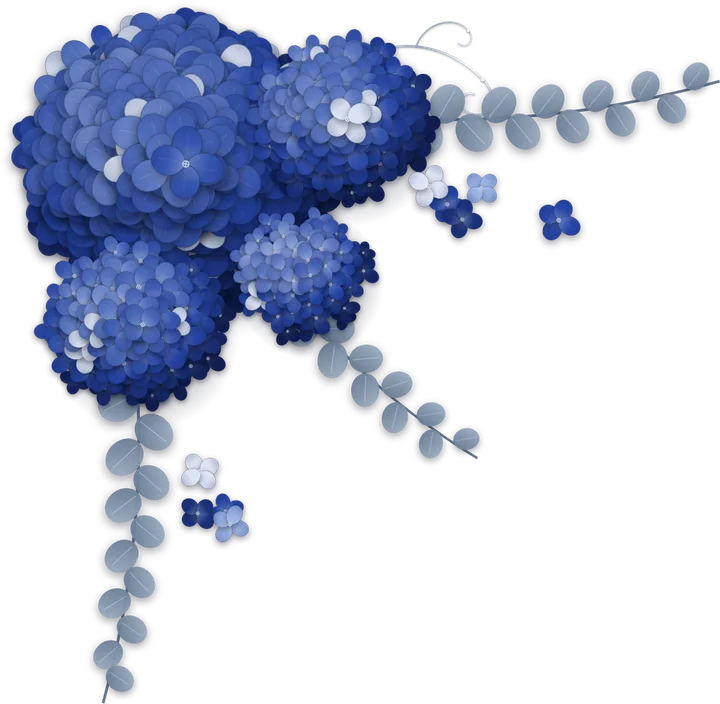
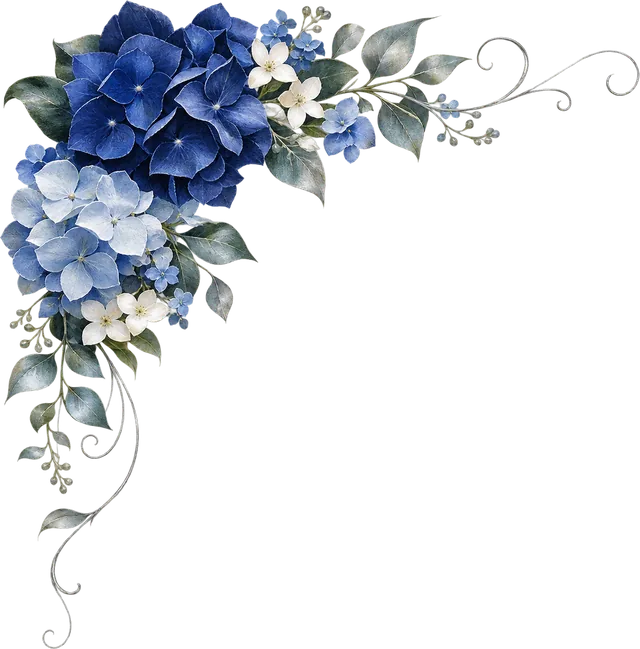
Hortênsias definitivas: ilustrações no lugar das provisórias
- Canto, arranjo com laço (no lacre do envelope), ramo das divisórias,
  hortênsia solta (Manual do Convidado) e guirlanda em volta do lacre do rodapé
- Florzinhas ilustradas caindo na abertura (tira 6 × 96 px no canvas, com
  desenho simples de reserva se a imagem não carregar)
- tools/prep_flores.py: limpa o alfa, recorta, reduz e exporta em WebP
- Remove o gerador das flores provisórias

Claude-Session: https://claude.ai/code/session_01HrQzDJ48b2GaZGgzArpSWo

diff --git a/assets/css/style.css b/assets/css/style.css
@@ -184,9 +184,9 @@ img { user-select: none; -webkit-user-select: none; -webkit-user-drag: none; }
 }
 
 /* hortênsias nos cantos */
-.intro__flor { position: absolute; z-index: 2; width: clamp(190px, 56vw, 290px); height: auto; pointer-events: none; opacity: 0; filter: drop-shadow(0 12px 16px rgba(0, 0, 0, .4)); }
-.intro__flor--tl { top: calc(-9vw - 6px); left: -10vw; }
-.intro__flor--br { bottom: calc(-9vw - 6px); right: -10vw; width: clamp(170px, 48vw, 260px); }
+.intro__flor { position: absolute; z-index: 2; width: clamp(190px, 54vw, 300px); height: auto; pointer-events: none; opacity: 0; filter: drop-shadow(0 12px 16px rgba(0, 0, 0, .4)); }
+.intro__flor--tl { top: calc(-3vw + var(--safe-t)); left: -4vw; }
+.intro__flor--br { bottom: -3vw; right: -4vw; width: clamp(180px, 52vw, 280px); }
 .intro.is-ready .intro__flor--tl { animation: flor-tl 1.8s .3s var(--ease) forwards; }
 .intro.is-ready .intro__flor--br { animation: flor-br 1.8s .55s var(--ease) forwards; }
 @keyframes flor-tl { from { opacity: 0; transform: translate(-10%, -10%) scale(.92); } to { opacity: 1; transform: none; } }
@@ -291,8 +291,8 @@ img { user-select: none; -webkit-user-select: none; -webkit-user-drag: none; }
 /* arranjo de hortênsias preso no lacre */
 .env__bouquet {
   position: absolute; left: 50%; top: 61.2245%; z-index: 6;
-  width: 50%; height: auto;
-  transform: translate(-50%, -56%);
+  width: 40%; height: auto;
+  transform: translate(-50%, -70%);   /* o laço fica atrás do lacre */
   pointer-events: none;
   filter: drop-shadow(0 6px 8px rgba(0, 0, 0, .45));
 }
@@ -311,7 +311,7 @@ img { user-select: none; -webkit-user-select: none; -webkit-user-drag: none; }
 .intro.is-opening .intro__hint, .intro.is-skipping .intro__hint { animation: none; opacity: 0; transition: opacity .3s ease; }
 
 .intro.is-opening .env__bouquet { animation: bouquet-fall .8s .05s cubic-bezier(.4, 0, .7, .4) forwards; }
-@keyframes bouquet-fall { to { transform: translate(-50%, -20%) rotate(-6deg) scale(.94); opacity: 0; } }
+@keyframes bouquet-fall { to { transform: translate(-50%, -34%) rotate(-6deg) scale(.94); opacity: 0; } }
 
 .intro.is-opening .env__flap { animation: flap-open .85s .35s cubic-bezier(.45, .05, .25, 1) both, fade-out .55s 1.95s ease-in forwards; }
 @keyframes flap-open {
@@ -482,8 +482,8 @@ img { user-select: none; -webkit-user-select: none; -webkit-user-drag: none; }
 .arch::after { inset: 17px; border: 1px solid rgba(223, 229, 238, .32); }
 
 .arch__flor { position: absolute; z-index: 2; height: auto; pointer-events: none; filter: drop-shadow(0 10px 14px rgba(0, 0, 0, .45)); }
-.arch__flor--tl { top: -52px; left: -30px; width: 54%; }
-.arch__flor--br { bottom: -44px; right: -22px; width: 42%; transform: rotate(180deg); }
+.arch__flor--tl { top: -34px; left: -24px; width: 62%; }
+.arch__flor--br { bottom: -30px; right: -20px; width: 50%; transform: rotate(180deg); }
 .arch__in { position: relative; z-index: 1; }
 
 .hero__xv {
@@ -500,7 +500,7 @@ img { user-select: none; -webkit-user-select: none; -webkit-user-drag: none; }
 .name__a { transform: translateX(-.32em); }
 .name__b { transform: translateX(.22em); margin-top: -.18em; }
 
-.hero__ramo { display: block; width: 84%; height: auto; margin: 14px auto 4px; }
+.hero__ramo { display: block; width: 92%; height: auto; margin: 16px auto 6px; }
 .invite { margin-top: 10px; display: grid; gap: 8px; }
 .invite span:first-child { font-size: 1.3rem; font-weight: 600; line-height: 1.25; color: var(--silver-100); text-wrap: balance; }
 .invite span:last-child { font-size: 1.14rem; font-style: italic; line-height: 1.3; color: var(--silver-300); }
@@ -669,7 +669,7 @@ img { user-select: none; -webkit-user-select: none; -webkit-user-drag: none; }
 .pearl::before, .pearl::after { content: ""; position: absolute; pointer-events: none; }
 .pearl::before { inset: 10px; border: 1px solid rgba(42, 79, 181, .38); }
 .pearl::after  { inset: 15px; border: 1px solid rgba(42, 79, 181, .14); }
-.pearl__flor { position: absolute; left: 50%; top: -62px; z-index: 3; width: 200px; height: auto; transform: translateX(-50%); filter: drop-shadow(0 10px 12px rgba(4, 10, 30, .35)); pointer-events: none; }
+.pearl__flor { position: absolute; left: 50%; top: -78px; z-index: 3; width: 150px; height: auto; transform: translateX(-50%); filter: drop-shadow(0 10px 12px rgba(4, 10, 30, .35)); pointer-events: none; }
 .pearl__corner { position: absolute; z-index: 1; width: 52px; height: 52px; color: var(--royal); opacity: .8; pointer-events: none; }
 .pearl__corner svg { width: 100%; height: 100%; display: block; overflow: visible; }
 .pearl__corner--tl { top: 10px; left: 10px; }
@@ -694,11 +694,12 @@ img { user-select: none; -webkit-user-select: none; -webkit-user-drag: none; }
 /* ---------- 8. RODAPÉ E BOTÃO DE MÚSICA ---------------------------------- */
 .footer { position: relative; padding: 70px 24px 28px; text-align: center; }
 .footer::before {
-  content: ""; position: absolute; left: 50%; top: 110px; width: 300px; height: 300px; margin-left: -150px; z-index: -1;
+  content: ""; position: absolute; left: 50%; top: 50px; width: 300px; height: 300px; margin-left: -150px; z-index: -1;
   background: radial-gradient(closest-side, rgba(160, 188, 250, .2), transparent);
 }
-.footer__ramo { display: block; width: min(64%, 250px); height: auto; margin: 0 auto 14px; }
-.footer__seal { display: block; width: 72px; height: 72px; margin: 0 auto 22px; filter: drop-shadow(0 6px 8px rgba(0, 0, 0, .55)); }
+.footer__crest { position: relative; width: 220px; height: 220px; margin: 0 auto 16px; }
+.footer__wreath { position: absolute; inset: 0; width: 100%; height: 100%; filter: drop-shadow(0 10px 14px rgba(0, 0, 0, .45)); }
+.footer__seal { position: absolute; left: 50%; top: 47%; width: 78px; height: 78px; transform: translate(-54%, -50%); filter: drop-shadow(0 6px 8px rgba(0, 0, 0, .55)); }
 .footer__line { font-size: 1.3rem; font-style: italic; color: var(--silver-200); }
 .footer__name { margin-top: 4px; font-size: 3.3rem; line-height: 1.3; color: var(--silver-100); text-shadow: 0 2px 14px rgba(0, 0, 0, .55); }
 

diff --git a/index.html b/index.html
@@ -178,8 +178,8 @@
   <section id="intro" class="intro" aria-label="Convite fechado">
     <div class="intro__veil" aria-hidden="true"></div>
     <div class="intro__beam" aria-hidden="true"></div>
-    <img class="intro__flor intro__flor--tl" src="assets/img/flores/canto.webp" alt="" width="720" height="704" decoding="async" fetchpriority="high">
-    <img class="intro__flor intro__flor--br" src="assets/img/flores/canto.webp" alt="" width="720" height="704" decoding="async">
+    <img class="intro__flor intro__flor--tl" src="assets/img/flores/canto.webp" alt="" width="640" height="649" decoding="async" fetchpriority="high">
+    <img class="intro__flor intro__flor--br" src="assets/img/flores/canto.webp" alt="" width="640" height="649" decoding="async">
     <div class="intro__glow" aria-hidden="true"></div>
     <canvas class="burst" id="burst" aria-hidden="true"></canvas>
     <p class="intro__title" aria-hidden="true">
@@ -240,7 +240,7 @@
         <p class="env__name script" aria-hidden="true" data-cfg="pessoa.nome"></p>
 
         <!-- arranjo de hortênsias preso ao lacre -->
-        <img class="env__bouquet" src="assets/img/flores/arranjo.webp" alt="" width="560" height="351" decoding="async">
+        <img class="env__bouquet" src="assets/img/flores/arranjo.webp" alt="" width="520" height="549" decoding="async">
 
         <!-- LACRE: dois pedaços que se separam quando o convite é aberto -->
         <button class="seal" id="seal" type="button" aria-label="Abrir o convite">
@@ -273,15 +273,15 @@
     <section id="capa" class="hero" aria-label="Convite de XV anos">
       <div class="arch">
         <span class="arch__frame" aria-hidden="true"></span>
-        <img class="arch__flor arch__flor--tl" src="assets/img/flores/canto.webp" alt="" width="720" height="704" decoding="async">
-        <img class="arch__flor arch__flor--br" src="assets/img/flores/canto.webp" alt="" width="720" height="704" decoding="async">
+        <img class="arch__flor arch__flor--tl" src="assets/img/flores/canto.webp" alt="" width="640" height="649" decoding="async">
+        <img class="arch__flor arch__flor--br" src="assets/img/flores/canto.webp" alt="" width="640" height="649" decoding="async">
         <div class="arch__in">
           <p class="hero__xv" aria-hidden="true" data-cfg="pessoa.xv"></p>
           <p class="name script">
             <span class="name__a" data-cfg="pessoa.primeiroNome"></span>
             <span class="name__b" data-cfg="pessoa.sobrenome"></span>
           </p>
-          <img class="hero__ramo" src="assets/img/flores/ramo.webp" alt="" width="800" height="172" decoding="async">
+          <img class="hero__ramo" src="assets/img/flores/ramo.webp" alt="" width="900" height="105" decoding="async">
           <p class="invite"><span data-cfg="textos.convite.chamada"></span><span data-cfg="textos.convite.frase"></span></p>
         </div>
       </div>
@@ -327,7 +327,7 @@
 
     <!-- ---------- MENU DE BOTÕES ---------- -->
     <section id="menu" class="section actions" aria-labelledby="menu-titulo">
-      <img class="actions__ramo reveal reveal--flor" src="assets/img/flores/ramo.webp" alt="" width="800" height="172" loading="lazy" decoding="async">
+      <img class="actions__ramo reveal reveal--flor" src="assets/img/flores/ramo.webp" alt="" width="900" height="105" loading="lazy" decoding="async">
       <h2 class="section__title reveal" id="menu-titulo" data-cfg="textos.menuTitulo"></h2>
 
       <nav class="menu" aria-label="Opções do convite">
@@ -379,7 +379,7 @@
     <!-- ---------- MANUAL DO CONVIDADO (cartão perolado) ---------- -->
     <section id="manual" class="section" aria-labelledby="manual-titulo">
       <article class="pearl reveal">
-        <img class="pearl__flor" src="assets/img/flores/arranjo.webp" alt="" width="560" height="351" loading="lazy" decoding="async">
+        <img class="pearl__flor" src="assets/img/flores/hortensia.webp" alt="" width="440" height="434" loading="lazy" decoding="async">
         <span class="pearl__corner pearl__corner--tl" aria-hidden="true"><svg><use href="#ornament-corner"/></svg></span>
         <span class="pearl__corner pearl__corner--tr" aria-hidden="true"><svg><use href="#ornament-corner"/></svg></span>
         <span class="pearl__corner pearl__corner--bl" aria-hidden="true"><svg><use href="#ornament-corner"/></svg></span>
@@ -393,8 +393,10 @@
 
     <!-- ---------- RODAPÉ ---------- -->
     <footer class="footer">
-      <img class="footer__ramo reveal reveal--flor" src="assets/img/flores/ramo.webp" alt="" width="800" height="172" loading="lazy" decoding="async">
-      <svg class="footer__seal reveal" aria-hidden="true" viewBox="0 0 120 120" focusable="false"><use href="#seal-art"/></svg>
+      <div class="footer__crest reveal reveal--flor" aria-hidden="true">
+        <img class="footer__wreath" src="assets/img/flores/guirlanda.webp" alt="" width="480" height="479" loading="lazy" decoding="async">
+        <svg class="footer__seal" viewBox="0 0 120 120" focusable="false"><use href="#seal-art"/></svg>
+      </div>
       <p class="footer__line reveal" data-cfg="textos.rodape"></p>
       <p class="footer__name script reveal" data-cfg="pessoa.nome"></p>
     </footer>

diff --git a/assets/js/app.js b/assets/js/app.js
@@ -698,11 +698,23 @@ const CONFIG = {
       const cores = ['#2a4fb5', '#4c74d8', '#a9c1ee', '#e9eef7'];
       return {
         x: Math.random() * W, y: qualquerAltura ? Math.random() * H * .7 : -20,
-        s: 5 + Math.random() * 4, vy: .22 + Math.random() * .2, rot: Math.random() * 6.283, vr: (Math.random() - .5) * .012,
-        fase: Math.random() * 6.283, c: cores[Math.floor(Math.random() * cores.length)], a: 0,
+        s: 6 + Math.random() * 4.5, vy: .22 + Math.random() * .2, rot: Math.random() * 6.283, vr: (Math.random() - .5) * .012,
+        fase: Math.random() * 6.283, c: cores[Math.floor(Math.random() * cores.length)], i: Math.floor(Math.random() * 6), a: 0,
       };
     }
+    // tira com 6 florzinhas ilustradas (96 px cada); se não carregar, desenha uma versão simples
+    const tira = new Image();
+    let tiraOk = false;
+    tira.onload = () => { tiraOk = true; if (reduceMotion) desenhar(0); };
+    tira.src = 'assets/img/flores/florzinhas.webp';
     function florzinha(f) {
+      if (tiraOk) {
+        ctx.save(); ctx.translate(f.x, f.y); ctx.rotate(f.rot);
+        ctx.globalAlpha = f.a * .92;
+        ctx.drawImage(tira, f.i * 96, 0, 96, 96, -f.s * 1.3, -f.s * 1.3, f.s * 2.6, f.s * 2.6);
+        ctx.restore();
+        return;
+      }
       ctx.save(); ctx.translate(f.x, f.y); ctx.rotate(f.rot);
       ctx.globalAlpha = f.a * .85; ctx.fillStyle = f.c;
       for (let k = 0; k < 4; k++) {

diff --git a/tools/prep_flores.py b/tools/prep_flores.py
@@ -1,0 +1,47 @@
+#!/usr/bin/env python3
+"""Prepara as ilustrações das flores (PNG com fundo transparente) para o site.
+Limpa o alfa, recorta, reduz e salva em WebP em assets/img/flores/.
+
+Uso: python3 tools/prep_flores.py <pasta-com-os-png>
+     A pasta deve ter: canto.png, arranjo.png, ramo.png, guirlanda.png, hortensia.png, florzinhas.png"""
+import sys, os
+import numpy as np
+from PIL import Image
+from scipy import ndimage
+
+UP = sys.argv[1].rstrip('/') + '/'
+OUT = os.path.join(os.path.dirname(os.path.abspath(__file__)), '..', 'assets', 'img', 'flores') + '/'
+
+def limpar(im):
+    a = np.asarray(im.convert('RGBA')).astype(np.float32)
+    al = a[..., 3]
+    al = np.where(al < 10, 0, np.clip((al - 10) * 255 / (252 - 10), 0, 255))   # 252 → opaco; ruído → transparente
+    a[..., 3] = al
+    return Image.fromarray(a.astype(np.uint8), 'RGBA')
+
+def salvar(im, nome, largura):
+    im = im.crop(im.getbbox())
+    h = round(im.height * largura / im.width)
+    im = im.resize((largura, h), Image.LANCZOS)
+    p = OUT + nome + '.webp'
+    im.save(p, 'WEBP', quality=82, method=6)
+    print(f'{nome}: {im.size} {os.path.getsize(p)//1024} KB')
+    return im
+
+for f, nome, w in [('canto', 'canto', 640), ('arranjo', 'arranjo', 520), ('ramo', 'ramo', 900),
+                   ('guirlanda', 'guirlanda', 480), ('hortensia', 'hortensia', 440)]:
+    salvar(limpar(Image.open(UP + f + '.png')), nome, w)
+
+# florzinhas: separa cada uma e monta uma tira 6 × 96 px para o canvas
+im = limpar(Image.open(UP + 'florzinhas.png'))
+al = np.asarray(im)[..., 3] > 40
+lab, n = ndimage.label(ndimage.binary_dilation(al, iterations=6))
+objs = sorted([s for s in ndimage.find_objects(lab) if (s[0].stop - s[0].start) > 120], key=lambda s: (s[0].start // 300, s[1].start))
+T = 96
+tira = Image.new('RGBA', (T * len(objs), T), (0, 0, 0, 0))
+for i, (sy, sx) in enumerate(objs):
+    c = im.crop((sx.start, sy.start, sx.stop, sy.stop)); c = c.crop(c.getbbox())
+    k = (T - 4) / max(c.size); c = c.resize((max(1, round(c.width * k)), max(1, round(c.height * k))), Image.LANCZOS)
+    tira.alpha_composite(c, (i * T + (T - c.width) // 2, (T - c.height) // 2))
+p = OUT + 'florzinhas.webp'; tira.save(p, 'WEBP', quality=86, method=6)
+print('florzinhas:', len(objs), 'peças', tira.size, os.path.getsize(p) // 1024, 'KB')

diff --git a/README.md b/README.md
@@ -59,7 +59,7 @@ Medi antes de "otimizar":
 
 - **Fontes sem bloquear a renderização.** Testei carregar o CSS do Google Fonts por JavaScript. Com o Google simulado lento (6 s), a página passou a abrir em ~70 ms em vez de esperar, mas no caso normal o Lighthouse oscilou demais no meu ambiente (a mesma versão ia de 76 a 98) para provar ganho. Como o método padrão tem menos código, mantive o padrão.
 - **Bug achado pelos testes:** o *fade-in* do volume podia calcular um valor levemente negativo; o navegador recusava e o fade parava no meio, deixando a música **muda**. Agora o volume é limitado a 0–1.
-- **Medições de desempenho variam** com a latência do Google Fonts. Por isso o README não cita uma nota de desempenho: o site tem ~140 KB de código, ~150 KB de imagens e a música (~1 MB).
+- **Medições de desempenho variam** com a latência do Google Fonts. Por isso o README não cita uma nota de desempenho: o site tem ~140 KB de código, ~335 KB de imagens e a música (~1 MB).
 
 ## Estrutura
 
@@ -73,7 +73,7 @@ Medi antes de "otimizar":
 │   ├── img/fundo/        textura de cetim do fundo
 │   ├── img/              favicon, ícone do iPhone, imagem de prévia do link
 │   └── musica.mp3        trilha de fundo (instrumental, gerada por código)
-├── tools/                geradores: trilha (make_music2.py), hortênsias (make_flores.js), cetim (make_cetim.py)
+├── tools/                trilha (make_music2.py), cetim do fundo (make_cetim.py), preparo das flores (prep_flores.py)
 ├── docs/                 imagens deste README
 └── _headers              cabeçalhos de segurança (Netlify)
 ```
